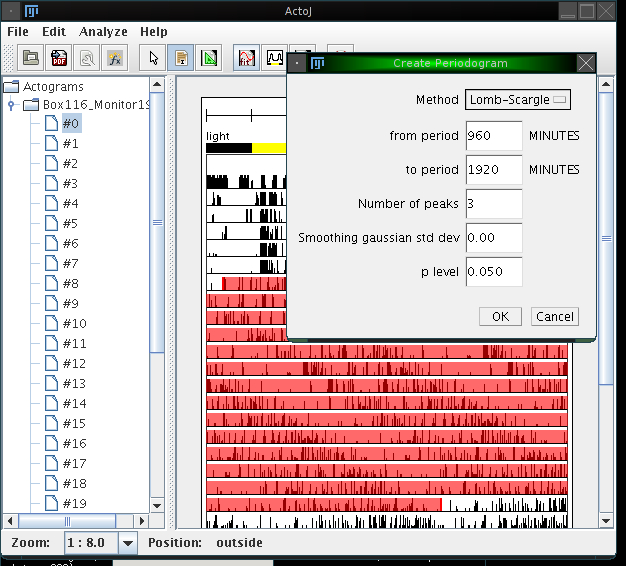
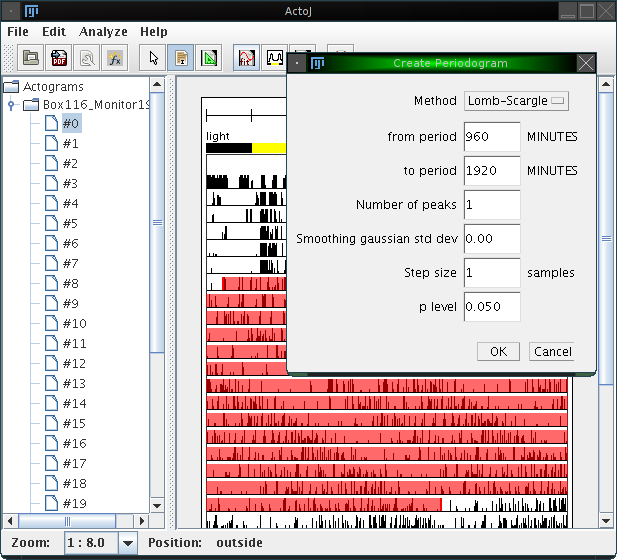
Allow to optionally downsample an actogram before calculating the periodogram.
Also update the website to describe this parameter.

diff --git a/www/index.html b/www/index.html
@@ -176,6 +176,8 @@ Specify here the interval in which you assume the freerunning period. Sensible d
 Enter here the number of peaks which will be highlighted in the result (see below).<br><br>
 <li><b>Smoothing gaussian standard deviation</b><br>
 By default, periodograms are calculated on the original actograms (and not the displayed ones, which are downsampled depending on the zoom level). Often the resulting periodograms, particularly when using the Chi-Square method, look noisy. To obtain smoother results, you can specify a non-zero standard deviation for gaussian smoothing here.<br><br>
+<li><b>Step size</b><br>
+By default, periodograms are calculated on the original actograms. To apply downsampling first, an optional step size can be specified here. If it is greater than 1, the periodogram is downsampled by the given factor before calculating the periodogram (and after the smoothing). Downsampling artificially reduces the number of measurements, which influences the p value calculation; periodograms may show peaks above the significance level when calculated without downsampling, but the same peaks may fall below the significance level if downsampling is performed.<br><br>
 <li><b>p level</b><br>
 In all methods except the Fourier one a p level can be chosen. Only peaks above the p-level line can be assumed to be significant.</br><br>
 </ul>

diff --git a/actoj/gui/ImageCanvas.java b/actoj/gui/ImageCanvas.java
@@ -177,6 +177,7 @@ public class ImageCanvas extends JPanel {
 		int toPeriod = (int)Math.round(per + per / 3);
 		int nPeaks = 1;
 		int methodIdx = 0;
+		int stepsize = 1;
 		float sigma = 0f;
 		double pLevel = 0.05;
 
@@ -190,6 +191,7 @@ public class ImageCanvas extends JPanel {
 		gd.addNumericField("to_period", toPeriod, 0, 6, a.unit.toString());
 		gd.addNumericField("Number of peaks", nPeaks, 0);
 		gd.addNumericField("Smoothing gaussian std dev", sigma, 2);
+		gd.addNumericField("Step size", stepsize, 0, 6, "samples");
 		gd.addNumericField("p level", pLevel, 3);
 		v = gd.getNumericFields();
 		final TextField tf = (TextField)v.get(v.size() - 1);
@@ -208,6 +210,7 @@ public class ImageCanvas extends JPanel {
 		final int tp = (int)gd.getNextNumber();
 		final int np = (int)gd.getNextNumber();
 		final float sig = (float)gd.getNextNumber();
+		final int steps = (int)gd.getNextNumber();
 		final double pV = gd.getNextNumber();
 		final TimeInterval fi = new TimeInterval(fp, a.unit);
 		final TimeInterval ti = new TimeInterval(tp, a.unit);
@@ -217,7 +220,7 @@ public class ImageCanvas extends JPanel {
 					if(ac.hasSelection()) {
 						try {
 							ac.calculatePeriodogram(fi,
-								ti, m, np, sig, pV);
+								ti, m, np, sig, steps, pV);
 						} catch(Exception e) {
 							IJ.error(e.getClass() + ": " + e.getMessage());
 							e.printStackTrace();

diff --git a/actoj/gui/ActogramCanvas.java b/actoj/gui/ActogramCanvas.java
@@ -273,7 +273,7 @@ public class ActogramCanvas extends JPanel
 	 */
 	public void calculatePeriodogram(TimeInterval fromPeriod, TimeInterval toPeriod,
 			int method, int nPeaks,
-			float sigma, double pLevel) {
+			float sigma, int stepsize, double pLevel) {
 
 		if(selStart == null || selCurr == null)
 			throw new RuntimeException("Interval required");
@@ -291,10 +291,23 @@ public class ActogramCanvas extends JPanel
 		sIdx = processor.getIndexInOriginal(sIdx);
 		cIdx = processor.getIndexInOriginal(cIdx);
 
-		Actogram acto = processor.original;
+		Actogram org = processor.original;
+		Actogram acto = org;
 		if(sigma > 0) {
 			float[] kernel = Filters.makeGaussianKernel(sigma);
-			acto = acto.convolve(kernel);
+			acto = org.convolve(kernel);
+		}
+
+		if(stepsize > 1) {
+			try {
+				acto = acto.downsample(stepsize);
+				double zoom = org.SAMPLES_PER_PERIOD / (double)acto.SAMPLES_PER_PERIOD;
+				sIdx = (int)Math.round(sIdx / zoom);
+				cIdx = (int)Math.round(cIdx / zoom);
+			} catch(Exception e) {
+				IJ.error("Invalid downsampling factor");
+				return;
+			}
 		}
 
 		int fromPeriodIdx = acto.getIndexForTime(fromPeriod);

diff --git a/actoj/gui/ActogramProcessor.java b/actoj/gui/ActogramProcessor.java
@@ -54,8 +54,22 @@ public class ActogramProcessor {
 			new GraphicsBackend(processor.getGraphics())), Color.BLACK);
 	}
 
+	/**
+	 * Transforms the given index in the downsampled
+	 * actogram to the corresponding index in the original
+	 * actogram.
+	 */
 	public int getIndexInOriginal(int i) {
 		return (int)Math.floor(i * zoom);
+	}
+
+	/**
+	 * Transforms the given index in the original
+	 * actogram to the corresponding index in the downsampled
+	 * actogram.
+	 */
+	public int getIndexInDownsampled(int i) {
+		return (int)Math.round(i / zoom);
 	}
 
 	public int getIndex(int x, int y) {
